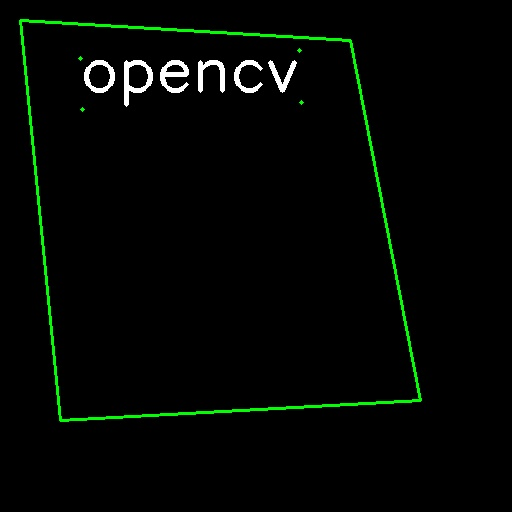
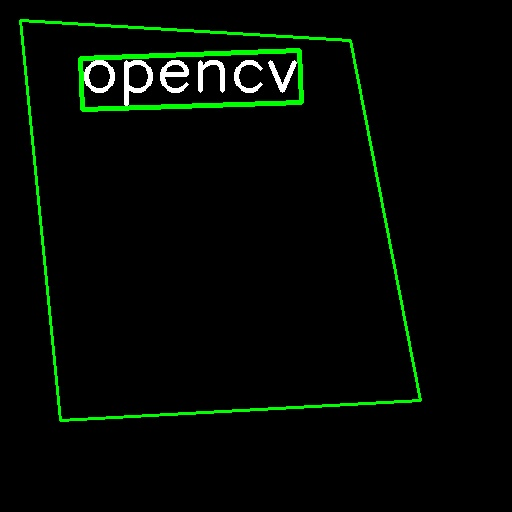
test: label test for detection

Changed region(s): [[0.125, 0.0938, 0.5938, 0.2188]]

diff --git a/projects/Part_Number/view.py b/projects/Part_Number/view.py
@@ -1,0 +1,121 @@
+
+import os
+import sys
+
+__dir__ = os.path.dirname(__file__)
+sys.path.append(os.path.join(__dir__, 'PaddleOCR-release-2.0-rc1-0'))
+
+import random
+import numpy as np
+from paddle.io import Dataset
+from ppocr.utils.logging import get_logger
+from ppocr.data.imaug import transform, create_operators
+
+"""
+Pipeline for decoding the labels
+
+Sample label file: r"E:\Projects\Part_Number\baidu\icdar2015\text_localization\test_icdar2015_label.txt"
+"""
+
+class SimpleDataset(Dataset):
+    def __init__(self, config, mode, logger):
+        super(SimpleDataset, self).__init__()
+        self.logger = logger
+        
+        global_config = config['Global']
+        dataset_config = config[mode]['dataset']
+        loader_config = config[mode]['loader']
+
+        self.delimiter = dataset_config.get('delimiter', '\t')
+        label_file_list = dataset_config.pop('label_file_list')
+        data_source_num = len(label_file_list)
+        ratio_list = dataset_config.get("ratio_list", [1.0])
+        if isinstance(ratio_list, (float, int)):
+            ratio_list = [float(ratio_list)] * int(data_source_num)
+
+        assert len(
+            ratio_list
+        ) == data_source_num, "The length of ratio_list should be the same as the file_list."
+        self.data_dir = dataset_config['data_dir']
+        self.do_shuffle = loader_config['shuffle']
+
+        logger.info("Initialize indexs of datasets:%s" % label_file_list)
+        self.data_lines = self.get_image_info_list(label_file_list, ratio_list)
+        self.data_idx_order_list = list(range(len(self.data_lines)))
+        # if mode.lower() == "train":
+        #     self.shuffle_data_random()
+        self.ops = create_operators(dataset_config['transforms'], global_config)
+        
+    def get_image_info_list(self, file_list, ratio_list):
+        if isinstance(file_list, str):
+            file_list = [file_list]
+        data_lines = []
+        for idx, file in enumerate(file_list):
+            with open(file, "rb") as f:
+                lines = f.readlines()
+                # lines = random.sample(lines,
+                #                       round(len(lines) * ratio_list[idx]))
+                data_lines.extend(lines)
+        return data_lines
+
+    def shuffle_data_random(self):
+        if self.do_shuffle:
+            random.shuffle(self.data_lines)
+        return
+
+    def __getitem__(self, idx):
+        file_idx = self.data_idx_order_list[idx]
+        data_line = self.data_lines[file_idx]
+        try:
+            data_line = data_line.decode('utf-8')
+            substr = data_line.strip("\n").split(self.delimiter)
+            file_name = substr[0]
+            label = substr[1]
+            img_path = os.path.join(self.data_dir, file_name)
+            data = {'img_path': img_path, 'label': label}
+            if not os.path.exists(img_path):
+                raise Exception("{} does not exist!".format(img_path))
+            with open(data['img_path'], 'rb') as f:
+                img = f.read()
+                data['image'] = img
+            outs = transform(data, self.ops)
+        except Exception as e:
+            self.logger.error(
+                "When parsing line {}, error happened with msg: {}".format(
+                    data_line, e))
+            outs = None
+        if outs is None:
+            return self.__getitem__(np.random.randint(self.__len__()))
+        return outs
+
+    def __len__(self):
+        return len(self.data_idx_order_list)
+
+        
+CONFIG = {
+    "Global": {
+    },
+    
+    "Train": {
+        "dataset": {
+            "label_file_list": [r"E:\Projects\Part_Number\baidu\icdar2015\text_localization\test_icdar2015_label.txt"],
+            "ratio_list": [1.0],
+            "data_dir": r"E:\Projects\Part_Number\baidu\icdar2015\text_localization",
+            "transforms": [{"DecodeImage":{"img_mode": "BGR", "channel_first": False}},
+                           {"DetLabelEncode": None}],
+        },
+        "loader": {
+            "shuffle": False,
+        },
+    },
+}
+    
+    
+if __name__ == "__main__":
+    label_file = r"E:\Projects\Part_Number\baidu\icdar2015\text_localization\test_icdar2015_label.txt"
+    logger = get_logger(name='root', log_file="./log.txt")
+    dataset = SimpleDataset(CONFIG, "Train", logger)
+    outs = dataset.__getitem__(0)
+    print(type(outs['polys']))
+    
+    

diff --git a/projects/Part_Number/pytest.py b/projects/Part_Number/pytest.py
@@ -1,8 +1,21 @@
 import os
 import sys
+import random
 import numpy as np
 
-A = [2,3,4,5,6]
-B = np.array(A) // 2
 
-print(B)
+def search_labels(label_file):
+    data_lines = []
+    
+    with open(label_file, "rb") as f:
+        lines = f.readlines()
+        lines = random.sample(lines, 1)
+        print(lines)
+        data_lines.extend(lines)
+    return data_lines
+    
+
+if __name__ == "__main__":
+    label_file = r"E:\Projects\Part_Number\baidu\icdar2015\text_localization\test_icdar2015_label.txt"
+    data_lines = search_labels(label_file)
+    #print(data_lines)

diff --git a/projects/Part_Number/utils.py b/projects/Part_Number/utils.py
@@ -8,5 +8,6 @@ def draw_polylines(image, polylines, isClosed=True, color=(0,255,0), thickness=3
     polylines = np.array(polylines, dtype=np.int32)#.reshape((-1,1,2))
     for line in polylines:
         line = line.reshape((-1,1,2))
-        image = cv2.polylines(image, line, isClosed=isClosed, color=color, thickness=thickness)
+        image = cv2.polylines(image, [line], isClosed=isClosed, color=color, thickness=thickness)
     return image   
+    
